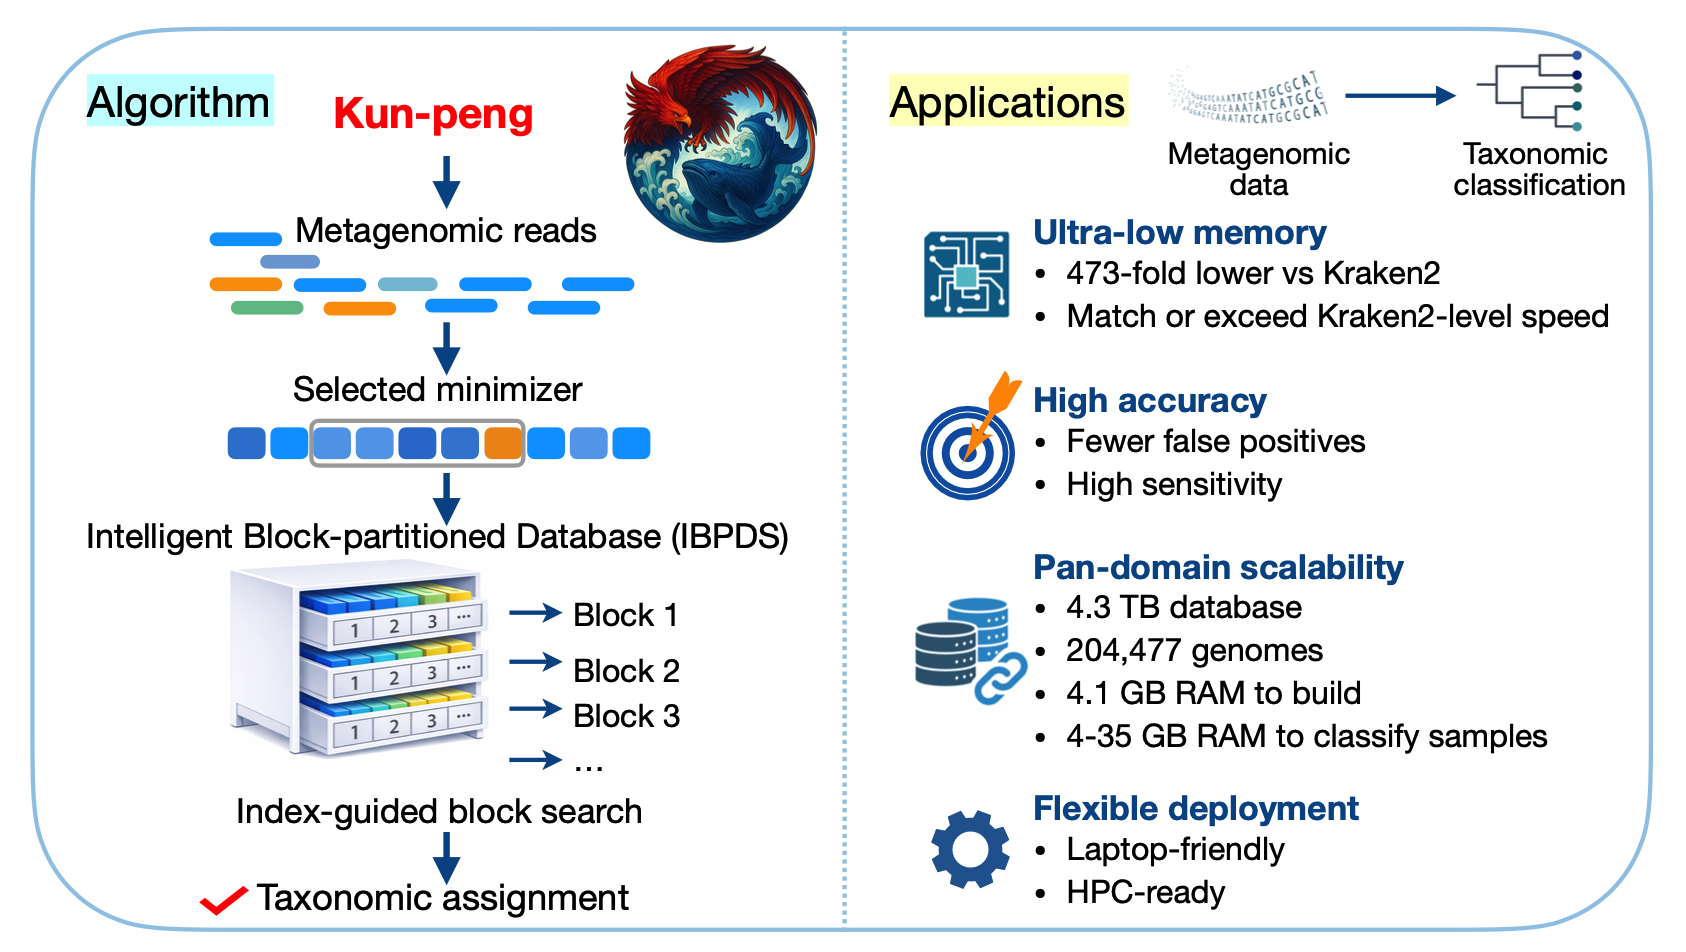
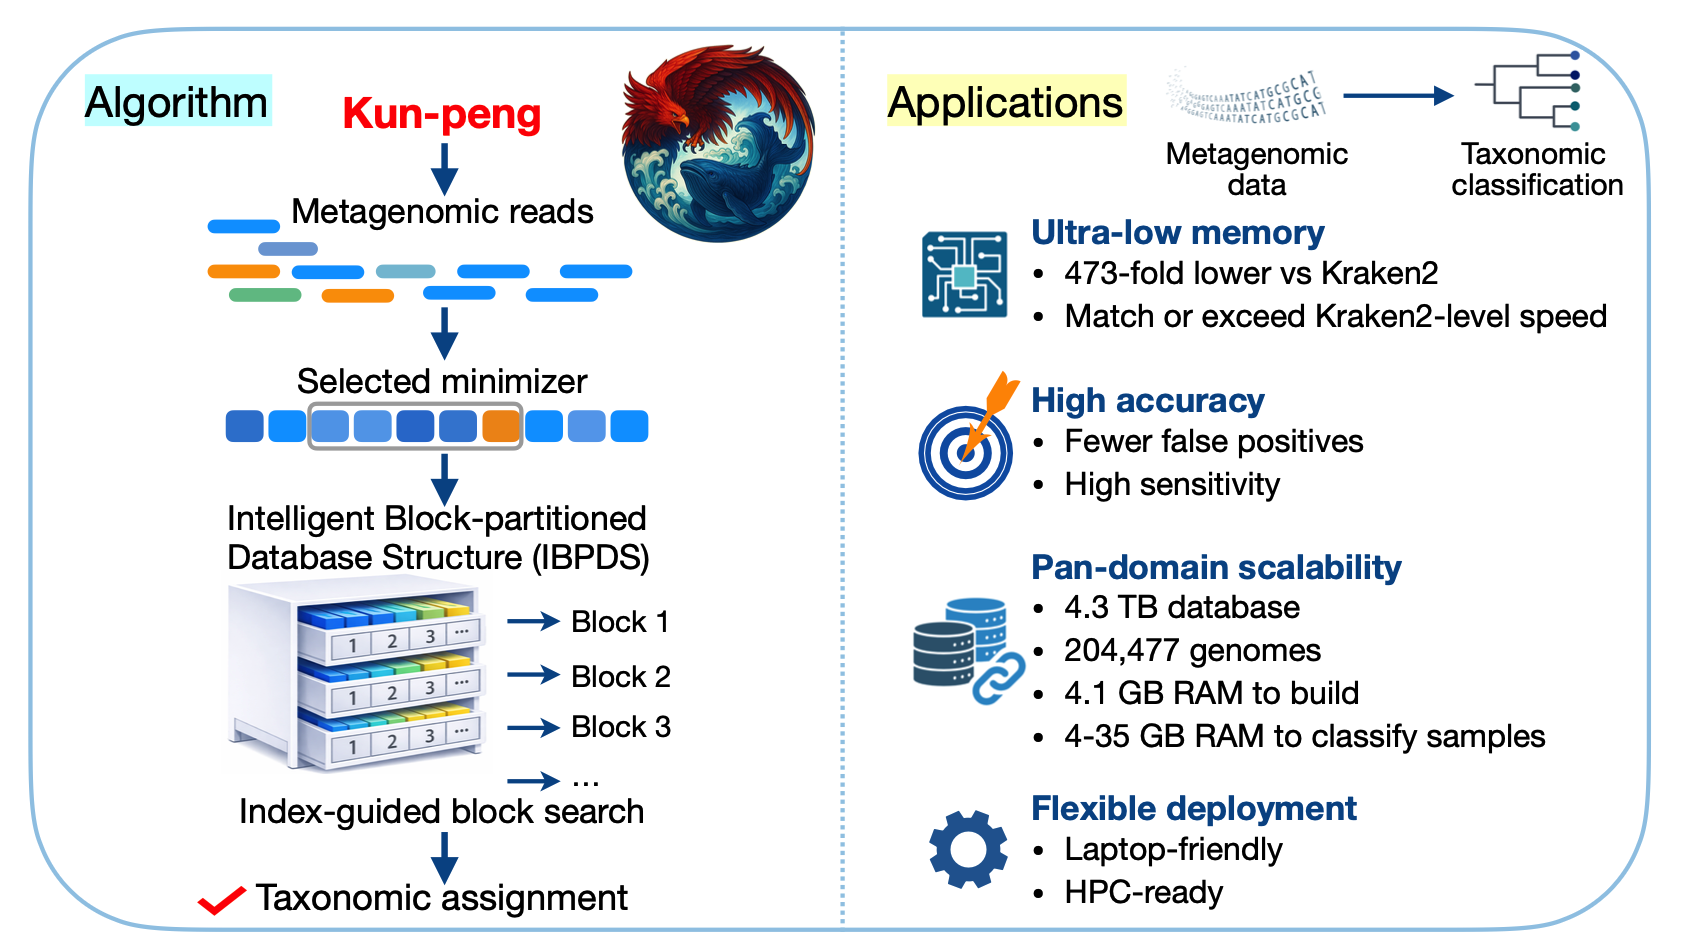
update readme

diff --git a/README_en.md b/README_en.md
@@ -78,6 +78,16 @@ Choose the path that matches your situation.
 
 ### A. Build from downloaded genomes, then classify
 
+Use this if:
+
+- `data/` already contains the required taxonomy and genome downloads
+
+Before you start:
+
+- `kun_peng` is installed or available at `./target/release/kun_peng`
+- you want to build a new database in `test_database/`
+- you have an example input such as `data/COVID_19.fa`
+
 ```bash
 kun_peng build --download-dir data/ --db test_database --hash-capacity 1G
 
@@ -89,7 +99,10 @@ kun_peng classify \
   data/COVID_19.fa
 ```
 
-Use this when `data/` already contains the taxonomy/genome downloads needed for the build.
+Success looks like:
+
+- `test_database/` contains `hash_*.k2d`, `hash_config.k2d`, `taxo.k2d`, and `opts.k2d`
+- `test_out/` contains `output_*.txt` and `*.kreport2`
 
 Detailed guide:
 
@@ -98,13 +111,23 @@ Detailed guide:
 
 ### B. You already have a library or want to add your own FASTA files
 
-Prepare the library:
+Use this if:
+
+- you already have `library/*.fna` content to build from
+- you want to extend a database with your own FASTA files
+
+Before you start:
+
+- the target database directory already exists or will be created as `test_database/`
+- if you use `add-library`, the database must already contain the expected library and taxonomy structure
+
+Prepare the library with downloaded genomes:
 
 ```bash
 kun_peng merge-fna --download-dir data/ --db test_database
 ```
 
-or:
+or add your own FASTA files:
 
 ```bash
 kun_peng add-library --db test_database -i /path/to/fastas
@@ -123,12 +146,26 @@ kun_peng classify \
   data/COVID_19.fa
 ```
 
+Success looks like:
+
+- `test_database/` contains rebuilt `hash_*.k2d` files
+- `test_out/` contains `output_*.txt` and `*.kreport2`
+
 Detailed guide:
 
 - [docs/build-db-demo.md](docs/build-db-demo.md)
 - [docs/classify-demo.md](docs/classify-demo.md)
 
 ### C. You already have a Kraken 2 database
+
+Use this if:
+
+- you already have a Kraken 2 database containing `hash.k2d`, `opts.k2d`, and `taxo.k2d`
+
+Before you start:
+
+- the Kraken 2 database is available at `/path/to/kraken_db`
+- you want to convert it once and then use Kun-peng classification workflows
 
 Convert the Kraken 2 database into Kun-peng's sharded format:
 
@@ -153,6 +190,11 @@ If you have enough RAM to load all `hash_*.k2d` files at once:
 bash cal_memory.sh /path/to/kraken_db
 kun_peng direct --db /path/to/kraken_db data/COVID_19.fa
 ```
+
+Success looks like:
+
+- `/path/to/kraken_db` contains `hash_config.k2d` and `hash_*.k2d`
+- `test_out/` contains `output_*.txt` and `*.kreport2` after `classify`
 
 Detailed guide:
 
@@ -227,20 +269,6 @@ bash cal_memory.sh test_database
 - [docs/classify-demo.md](docs/classify-demo.md): integrated and direct classification workflows
 - [docs/hashshard-demo.md](docs/hashshard-demo.md): convert a Kraken 2 database
 - [examples/README.md](examples/README.md): runnable Rust examples
-
-## Development
-
-Enable the repository Git hooks:
-
-```bash
-git config core.hooksPath .githooks
-```
-
-The provided `pre-push` hook runs:
-
-```bash
-cargo check --locked
-```
 
 ## Citation
 
